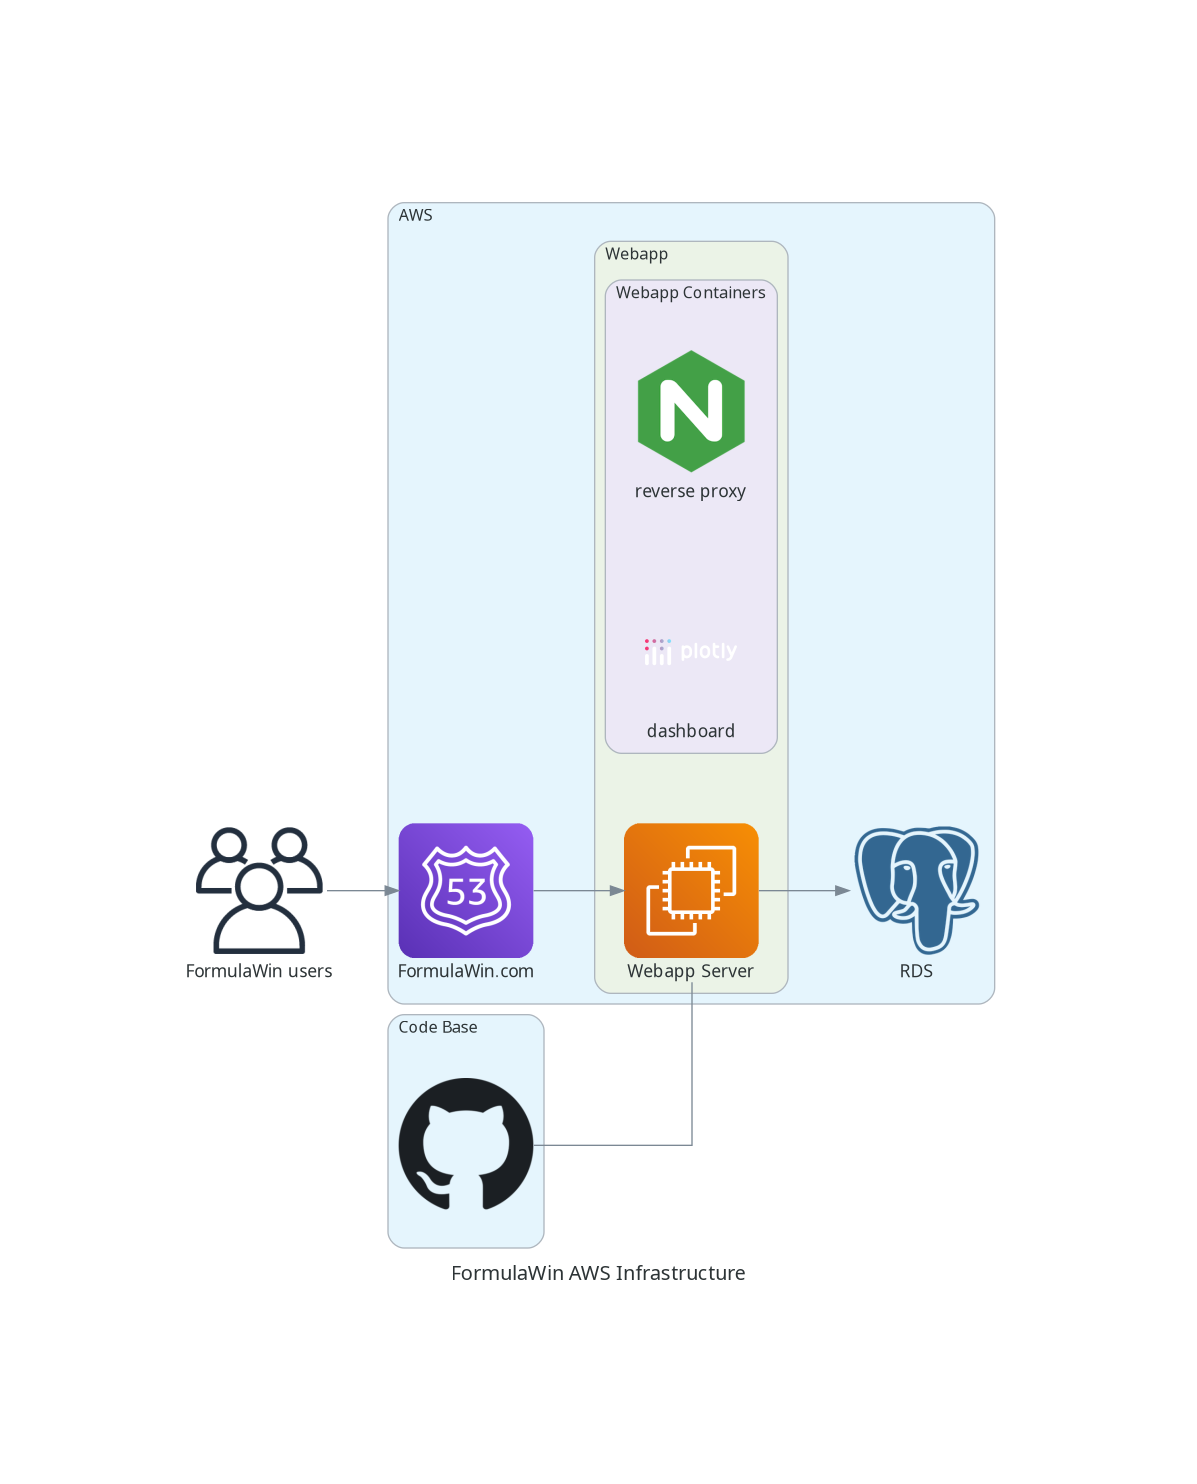
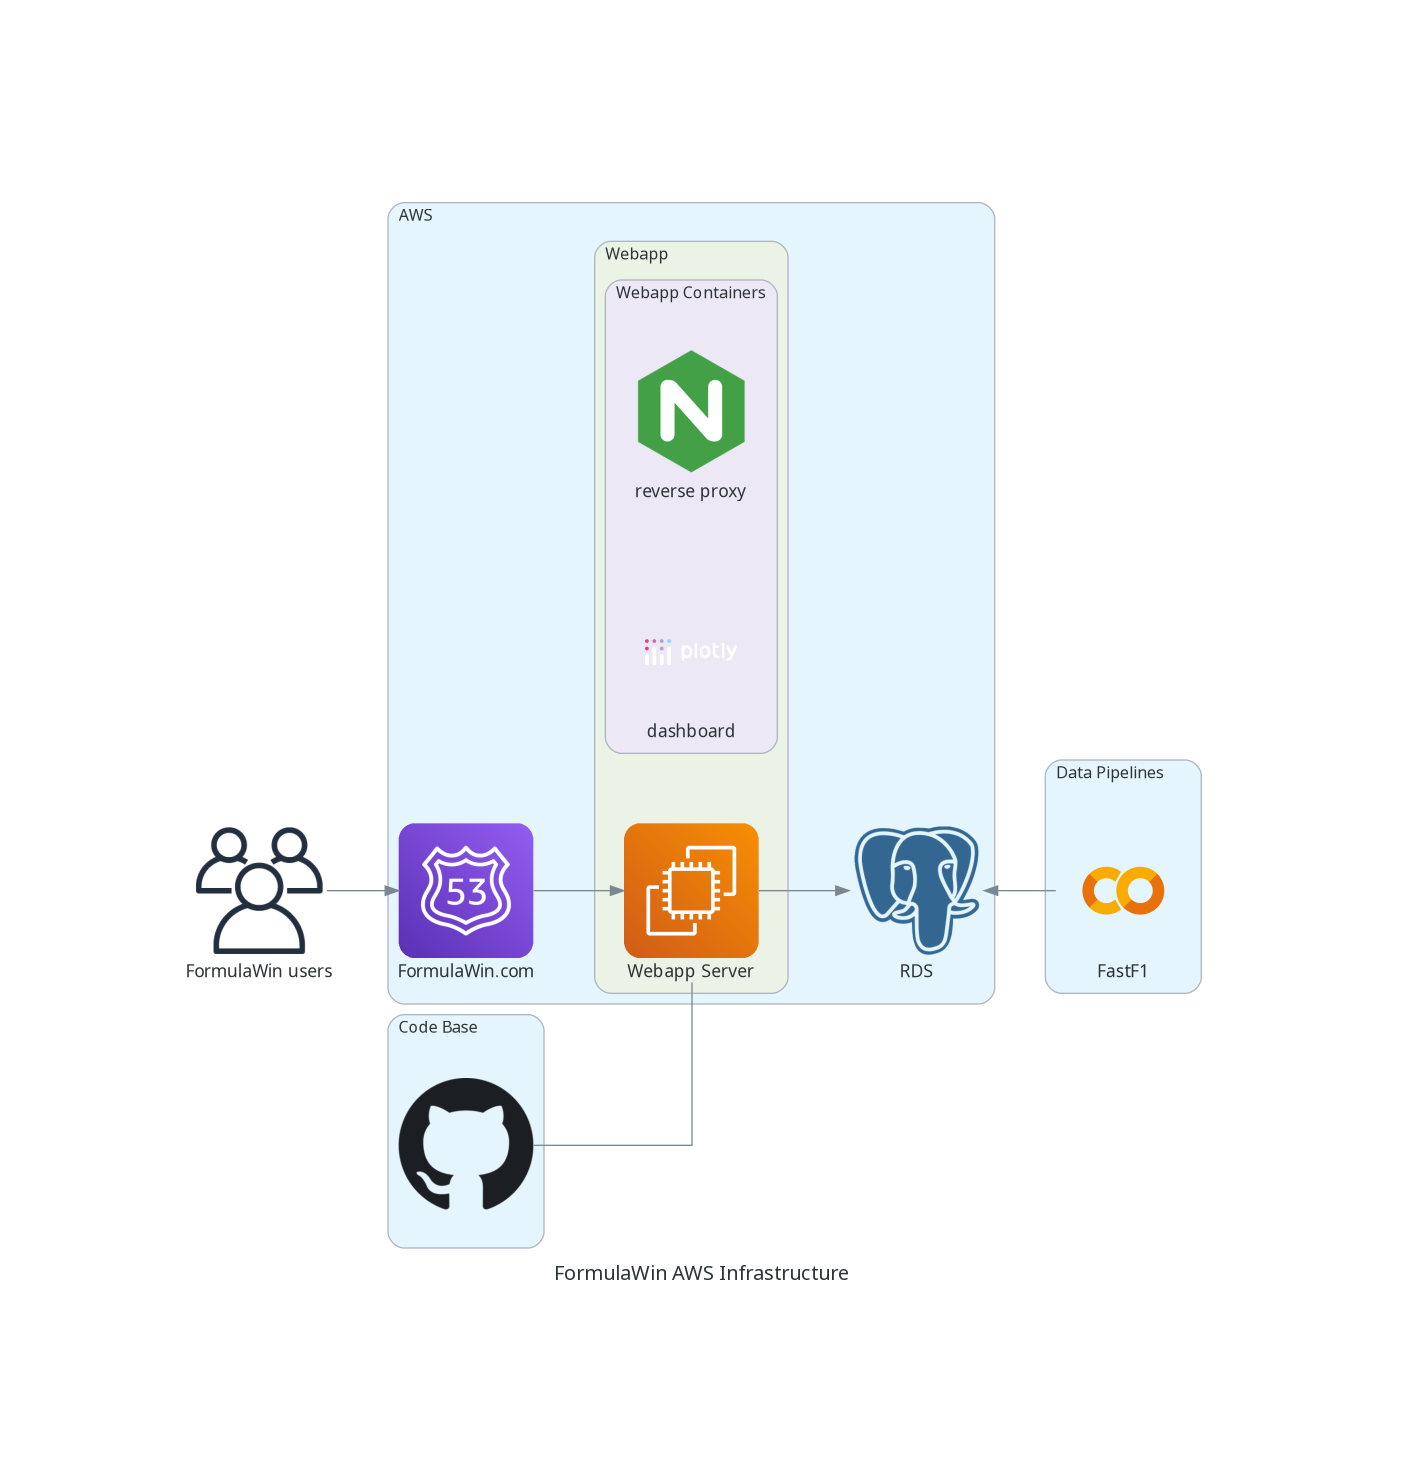
Updated diagram

Changed region(s): [[0.1236, 0.124, 0.8655, 0.8679]]

diff --git a/aws_infra/viz/infra_diagram_mvp.py b/aws_infra/viz/infra_diagram_mvp.py
@@ -22,15 +22,9 @@ with Diagram("FormulaWin AWS Infrastructure", show=False, direction="LR"):
 
     with Cluster("Code Base", direction="LR"):
         gh = Github("")
-        # with Cluster("Code Base"):
-        #     with Cluster("Web App"):
-        #         web_app_group = [
-        #             Custom("IaC", "./opentofu.png"),
-        #             Python("Dash code"),
-        #             Docker("Docker configs"),
-        #         ]
-        #     with Cluster("Data"):
-        #         data_code_group = [Python("Model code"), Python("ETL code")]
+
+    with Cluster("Data Pipelines"):
+        colab = Custom("FastF1", "./Google_Colaboratory_SVG_Logo.svg.png")
 
     dns >> ec2_web
     ec2_web >> db
@@ -38,3 +32,5 @@ with Diagram("FormulaWin AWS Infrastructure", show=False, direction="LR"):
     gh - ec2_web
 
     users >> dns
+
+    db << colab
